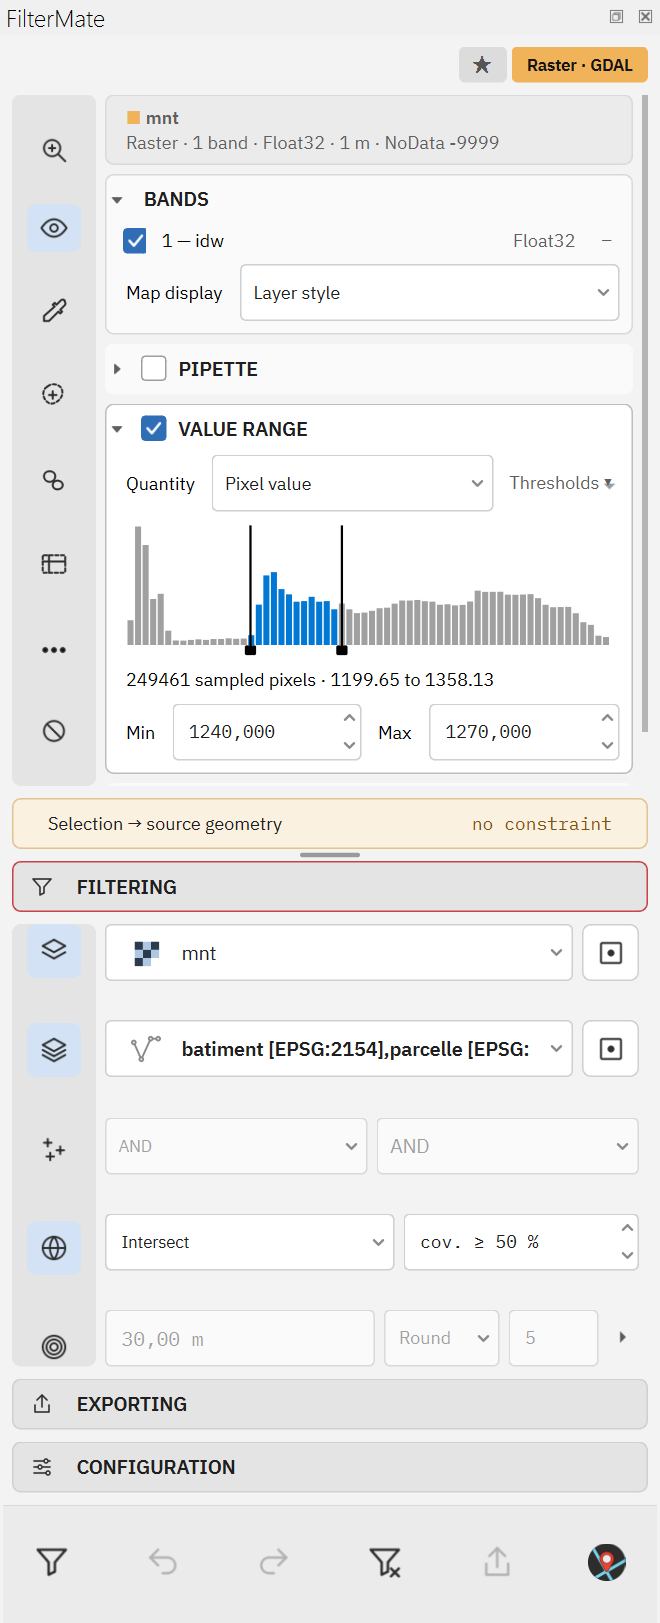
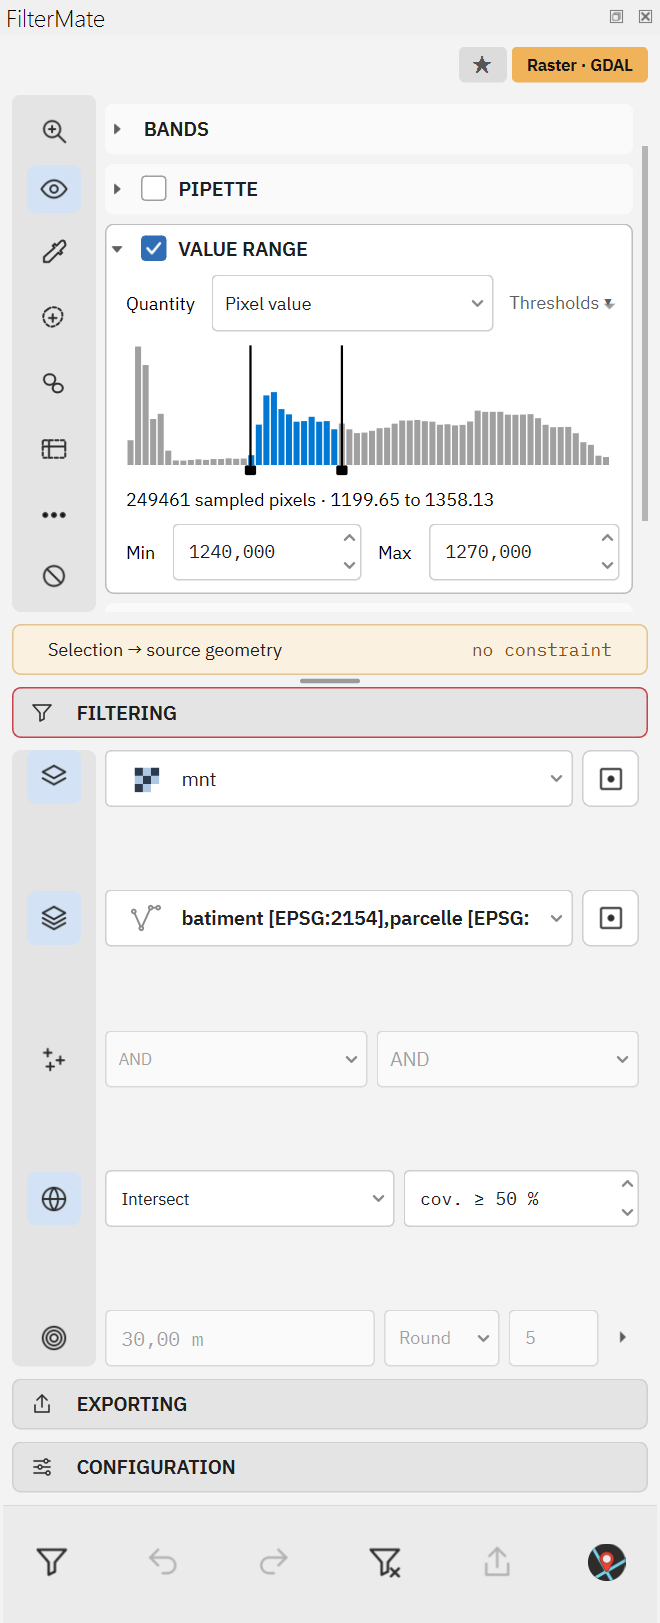
Raster screenshot at the EXPLORING height of the others, histogram range blue on an inactive window
The raster shot folds BANDS and scrolls to it instead of moving the splitter, so EXPLORING keeps the height
of the vector and point cloud shots. The histogram took the Highlight colour of the current palette group:
grey on Windows when QGIS is not the active window, also for the user; it now uses the Active group. The
guide shows the FilterMate 5 raster / point cloud dock shots (new rail order) instead of the mockup ones.

diff --git a/website/guide.fr.html b/website/guide.fr.html
@@ -612,11 +612,11 @@ processing.run("filtermate:batch_filter", {
     </p>
     <div class="fig-row">
         <figure class="narrow">
-            <img src="img/guide/raster-panel.png" alt="Le panneau EXPLORING d'un raster : bande, valeur au pixel, plage de valeurs avec histogramme ; FILTERING inchangé avec une couverture minimale" loading="lazy" width="645" height="1248">
+            <img src="img/guide/fm5_raster_exploring.png" alt="Le panneau EXPLORING d'un raster : bande, valeur au pixel, plage de valeurs avec histogramme ; FILTERING inchangé avec une couverture minimale" loading="lazy" width="440" height="1082">
             <figcaption>Raster : plage de valeurs sur l'histogramme, cibles vecteur avec une couverture minimale de 50 %.</figcaption>
         </figure>
         <figure class="narrow">
-            <img src="img/guide/pointcloud-panel.png" alt="Le panneau EXPLORING d'un nuage de points : classes ASPRS / LiDAR HD, plages d'attributs" loading="lazy" width="645" height="1248">
+            <img src="img/guide/fm5_pointcloud_exploring.png" alt="Le panneau EXPLORING d'un nuage de points : classes ASPRS / LiDAR HD, plages d'attributs" loading="lazy" width="440" height="1082">
             <figcaption>Nuage de points : classes (ici la classe 6, bâtiment) et plages d'attributs.</figcaption>
         </figure>
     </div>

diff --git a/website/guide.html b/website/guide.html
@@ -613,11 +613,11 @@ processing.run("filtermate:batch_filter", {
     </p>
     <div class="fig-row">
         <figure class="narrow">
-            <img src="img/guide/raster-panel.png" alt="The EXPLORING panel of a raster: band, pixel value, value range with histogram; FILTERING unchanged with a minimum coverage" loading="lazy" width="645" height="1248">
+            <img src="img/guide/fm5_raster_exploring.png" alt="The EXPLORING panel of a raster: band, pixel value, value range with histogram; FILTERING unchanged with a minimum coverage" loading="lazy" width="440" height="1082">
             <figcaption>Raster: value range on the histogram, vector targets with a 50 % minimum coverage.</figcaption>
         </figure>
         <figure class="narrow">
-            <img src="img/guide/pointcloud-panel.png" alt="The EXPLORING panel of a point cloud: ASPRS / LiDAR HD classes, attribute ranges" loading="lazy" width="645" height="1248">
+            <img src="img/guide/fm5_pointcloud_exploring.png" alt="The EXPLORING panel of a point cloud: ASPRS / LiDAR HD classes, attribute ranges" loading="lazy" width="440" height="1082">
             <figcaption>Point cloud: classes (here class 6, building) and attribute ranges.</figcaption>
         </figure>
     </div>

diff --git a/scripts/fm5_site_screenshots.py b/scripts/fm5_site_screenshots.py
@@ -8,7 +8,7 @@ Drives the dock in QGIS 4.2 with its GUI and saves PNGs into ``website/img/guide
 Images written (``fm5_<topic>.png``):
 
 * ``fm5_vector_multiple``      dock, vector layer as the current layer: several features ticked in MULTIPLE SELECTION
-* ``fm5_raster_exploring``     dock, raster as the current layer: band, pixel value, value range with the whole histogram
+* ``fm5_raster_exploring``     dock, raster as the current layer: band, pixel value, value range with the whole histogram (BANDS folded)
 * ``fm5_pointcloud_exploring`` dock, point cloud as the current layer: classes (building), attribute ranges
 * ``fm5_filtering_targets``    dock, vector source with raster and point cloud layers in the targets list
 * ``fm5_vector_to_raster``     map canvas after a vector -> raster clip (clipped VRT)
@@ -551,42 +551,48 @@ def histogram_hidden_by(area, group):
 
 
 def s_raster_room():
-    """Make the EXPLORING zone as tall as the value range needs, so that the histogram is not cut by the splitter."""
-    d, mw = dock(), iface.mainWindow()
+    """Room for the whole histogram in the EXPLORING height of the other shots: BANDS folded (one band, nothing to
+    read in it), then the page scrolled to the bottom of the value range (:func:`s_raster_scroll`)."""
     group = coverage()._raster_panel._range_group
     area = exploring_scroll_area(group)
     check('EXPLORING scroll area found', area is not None)
-    STATE['room'] = None
+    STATE['bands_folded'] = False
     if area is None:
         return None
     area.verticalScrollBar().setValue(0)
-    missing = histogram_hidden_by(area, group) + 8
-    if missing > 0:
-        STATE['room'] = (mw.size(), d.splitter_main.sizes())
-        sizes = d.splitter_main.sizes()
-        # take the room from the FILTERING zone first (its rows are spread, the dock keeps the height of the other shots)
-        take = max(0, min(missing, sizes[1] - d.splitter_main.widget(1).minimumSizeHint().height()))
-        sizes[0], sizes[1] = sizes[0] + take, sizes[1] - take
-        if missing > take:  # not enough: the window grows by the rest
-            mw.resize(mw.width(), mw.height() + missing - take)
-            sizes[0] += missing - take
-        d.splitter_main.setSizes(sizes)
-        print(f'   [room] missing={missing} taken from FILTERING={take} window grown={missing - take}', flush=True)
+    bands = coverage()._raster_panel._bands_group
+    if histogram_hidden_by(area, group) > 0 and hasattr(bands, 'setCollapsed') and not bands.isCollapsed():
+        bands.setCollapsed(True)
+        STATE['bands_folded'] = True
     since = time.time()
-    return lambda: time.time() - since > 1.5
+    return lambda: time.time() - since > 1.0
+
+
+def s_raster_scroll():
+    group = coverage()._raster_panel._range_group
+    area = exploring_scroll_area(group)
+    if area is None:
+        return None
+    bar = area.verticalScrollBar()
+    needed = bar.value() + histogram_hidden_by(area, group) + 8
+    if needed > 0:  # scroll past the whole card (BANDS on top) rather than cut it, when that is enough
+        bands = coverage()._raster_panel._bands_group.mapTo(area.widget(), QPoint(0, 0)).y() - 6
+        bar.setValue(min(bar.maximum(), max(needed, bands)))
+    print(f'   [room] BANDS folded={STATE["bands_folded"]} scrolled={bar.value()} px', flush=True)
+    since = time.time()
+    return lambda: time.time() - since > 0.5
 
 
 def s_raster_shot():
-    d = dock()
     group = coverage()._raster_panel._range_group
     area = exploring_scroll_area(group)
     hidden = histogram_hidden_by(area, group) if area is not None else 1
     check('raster: histogram fully visible', hidden <= 0, f'{hidden} px below the visible part')
     save_dock('raster_exploring')
-    if STATE.get('room'):  # back to the usual size for the map images that follow
-        size, sizes = STATE['room']
-        iface.mainWindow().resize(size)
-        d.splitter_main.setSizes(sizes)
+    if STATE.get('bands_folded'):  # back to the panel as the user left it
+        coverage()._raster_panel._bands_group.setCollapsed(False)
+    if area is not None:
+        area.verticalScrollBar().setValue(0)
     return refresh_canvas()
 
 
@@ -741,7 +747,8 @@ STEPS = [s_setup, s_open_plugin, s_dock_ready,
          s_vector_source, s_vector_select, s_shot_filtering, s_shot_vector_to_raster, s_save_vector_to_raster,
          s_after_undo,
          s_multi_source, s_multi_select, s_multi_shot,
-         s_raster_source, s_raster_select, s_raster_histogram, s_raster_room, s_raster_shot, s_raster_filter, s_raster_to_vector, s_raster_save,
+         s_raster_source, s_raster_select, s_raster_histogram, s_raster_room, s_raster_scroll, s_raster_shot,
+         s_raster_filter, s_raster_to_vector, s_raster_save,
          s_raster_settled,
          s_cloud_source, s_cloud_select, s_cloud_shot, s_cloud_to_vector, s_cloud_save, s_cloud_settled,
          s_back_to_vector, s_export_tab, s_export_shot, s_config_tab, s_config_shot, s_finish]

diff --git a/ui/widgets/coverage_panels/histogram_widget.py b/ui/widgets/coverage_panels/histogram_widget.py
@@ -340,7 +340,9 @@ class RangeHistogramWidget(QWidget):
             palette = self.palette()
             rect = self._plot_rect()
             painter.fillRect(rect, palette.color(QPalette.ColorRole.Base))
-            accent = self._accent if self._accent is not None else palette.color(QPalette.ColorRole.Highlight)
+            # the Active group: an inactive window (QGIS behind another one) greys the Highlight role on Windows
+            accent = self._accent if self._accent is not None else palette.color(
+                QPalette.ColorGroup.Active, QPalette.ColorRole.Highlight)
             muted = palette.color(QPalette.ColorRole.Mid)
             if not self._counts or not self._has_extent():
                 painter.setPen(palette.color(QPalette.ColorRole.WindowText))
